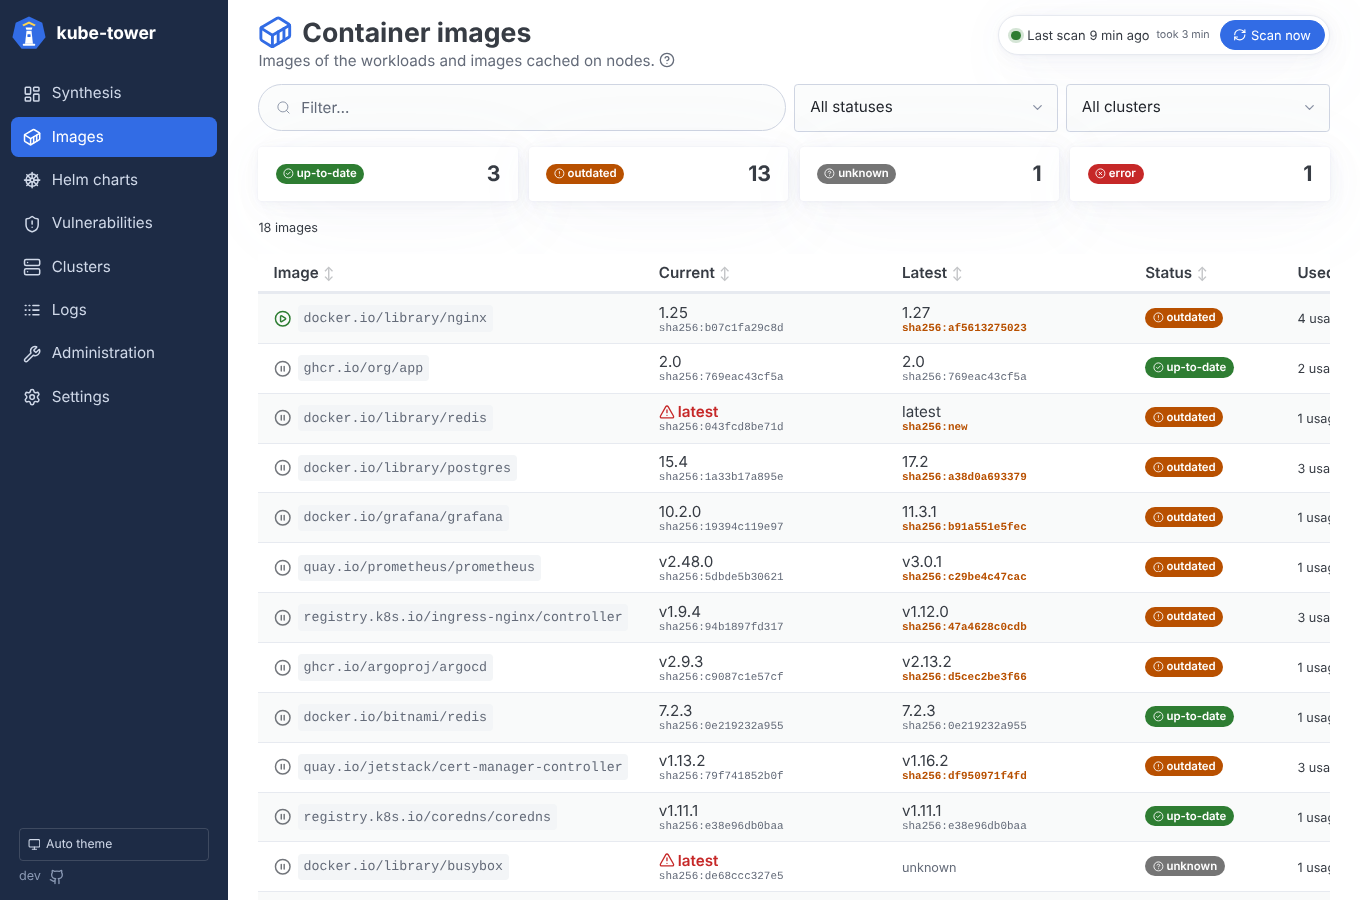
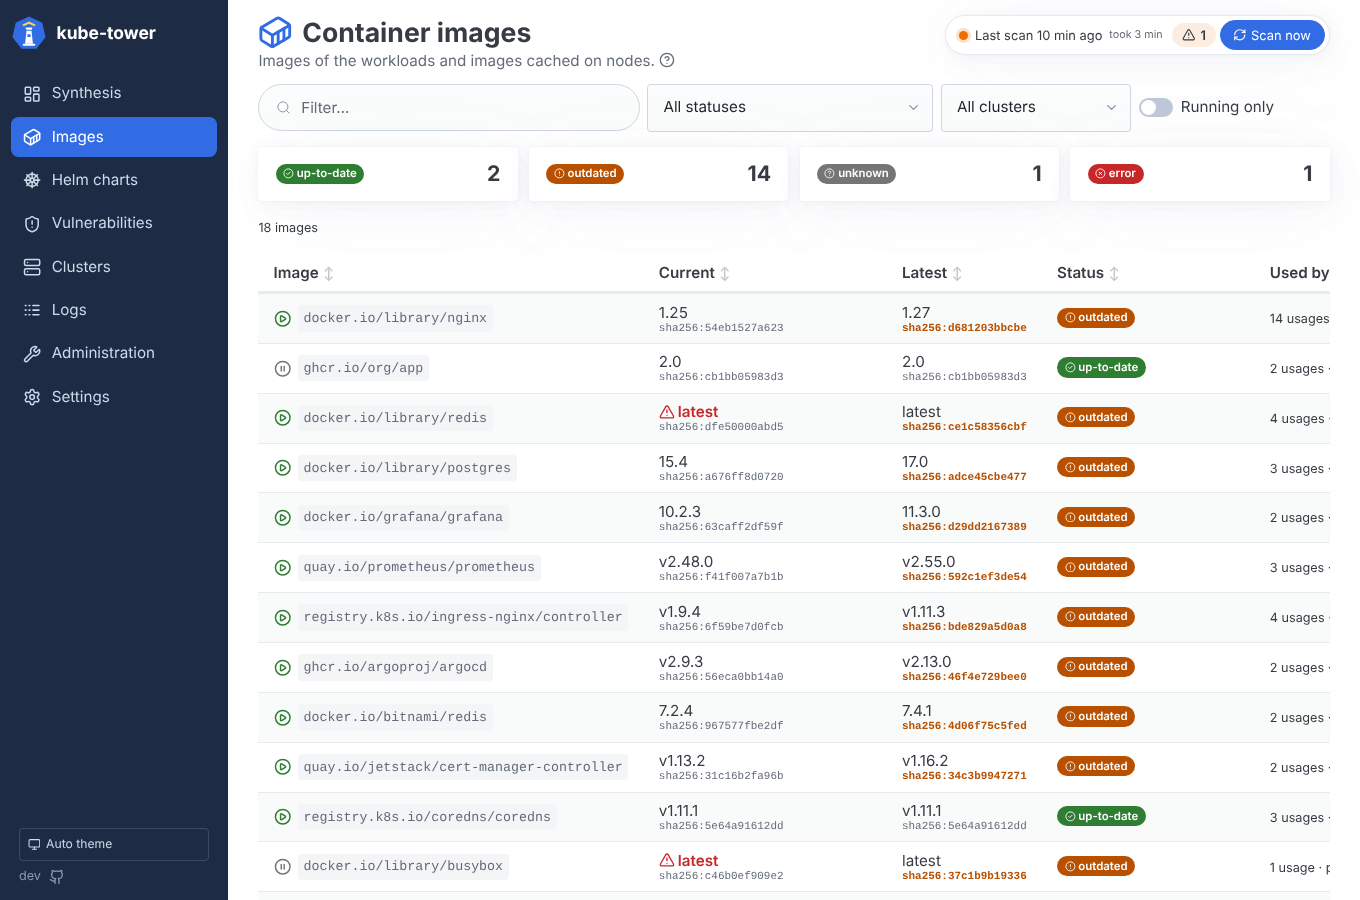
[ADD] Running only switch on the Images page (#95)
* Running only switch on the Images page

Claude-Session: https://claude.ai/code/session_01VCR1Wzjg7LBJK5t7fsriYj

* README and screenshots: the Running only switch

Claude-Session: https://claude.ai/code/session_01VCR1Wzjg7LBJK5t7fsriYj

---------

diff --git a/src/kube_tower/web/templates/_macros.html b/src/kube_tower/web/templates/_macros.html
@@ -76,8 +76,9 @@
 {% if items %}<p class="links">{% for label, url in items %}<a href="{{ url }}" target="_blank" rel="noopener">{{ icon("external-link") }}{{ label }}</a>{% endfor %}</p>{% endif %}
 {%- endmacro %}
 
-{% macro filters(path, q, status, cluster, snapshot) -%}
-<form class="filters" hx-get="{{ path }}" hx-target="#results" hx-push-url="true"
+{% macro filters(path, q, status, cluster, snapshot, running=none) -%}
+{# `running`: a "Running only" switch (images), checked when true; none: no switch. #}
+<form class="filters{% if running is not none %} filters-4{% endif %}" hx-get="{{ path }}" hx-target="#results" hx-push-url="true"
       hx-trigger="input changed delay:300ms from:input[name=q], change">
   <input type="search" name="q" value="{{ q }}" placeholder="Filter…" aria-label="Filter">
   <select name="status" aria-label="Status">
@@ -88,6 +89,11 @@
     <option value="">All clusters</option>
     {% for c in snapshot.clusters %}<option {% if c.name == cluster %}selected{% endif %}>{{ c.name }}</option>{% endfor %}
   </select>
+  {% if running is not none %}
+  <label class="filter-switch" title="Only the images that a pod runs (not the ones only declared by workloads without pods or cached on nodes)">
+    <input type="checkbox" role="switch" name="running" value="1" {% if running %}checked{% endif %}>Running only
+  </label>
+  {% endif %}
 </form>
 {%- endmacro %}
 

diff --git a/src/kube_tower/web/static/kube-tower.css b/src/kube_tower/web/static/kube-tower.css
@@ -138,6 +138,8 @@ th[aria-sort="descending"]::after { content: "↓"; opacity: 1; color: var(--kt-
 @media (max-width: 600px) { .filters { grid-template-columns: 1fr; } }
 .filters-4 { grid-template-columns: 2fr 1.5fr 1fr 1fr; }
 @media (max-width: 900px) { .filters-4 { grid-template-columns: 1fr 1fr; } }
+.filter-switch { display: flex; align-items: center; gap: .5rem; margin: 0 0 var(--pico-spacing, 1rem); white-space: nowrap; }
+.filter-switch input { margin: 0; }
 
 /* Status counters */
 .counters { display: grid; grid-template-columns: repeat(4, 1fr); gap: .75rem; margin-bottom: 1rem; }

diff --git a/src/kube_tower/web/templates/images.html b/src/kube_tower/web/templates/images.html
@@ -3,7 +3,7 @@
 {% block layout %}list-page{% endblock %}
 {% block heading %}{{ page_title("images", "Container images", "Images of the workloads and images cached on nodes.", "The icon tells whether a pod runs the image (hover it for details). Below each version, the start of its digest: a different digest is highlighted. Click an image for its details.") }}{% endblock %}
 {% block content %}
-{{ filters("images", q, status, cluster, snapshot) }}
+{{ filters("images", q, status, cluster, snapshot, running) }}
 <div id="results">{{ self.results() }}</div>
 {% endblock %}
 {% block results %}

diff --git a/src/kube_tower/web/ui.py b/src/kube_tower/web/ui.py
@@ -273,14 +273,17 @@ def mount(app: FastAPI) -> None:
     @app.get("/images", response_class=HTMLResponse, include_in_schema=False)
     async def images(request: Request):
         q, status, cluster = filters(request)
+        running = bool(request.query_params.get("running"))
         # Counters ignore the status filter: they are the buttons that set it.
         matching = [
             r
             for r in request.app.state.scanner.snapshot.images
-            if _matches(str(r.image), q) and (not cluster or cluster in r.clusters)
+            if _matches(str(r.image), q) and (not cluster or cluster in r.clusters) and (not running or r.running)
         ]
         rows = [r for r in matching if not status or r.status.value == status]
-        return render(request, "images", tab="images", rows=rows, matching=matching, q=q, status=status, cluster=cluster)
+        return render(
+            request, "images", tab="images", rows=rows, matching=matching, q=q, status=status, cluster=cluster, running=running
+        )
 
     @app.get("/images/detail", response_class=HTMLResponse, include_in_schema=False)
     async def image_detail(request: Request, ref: str = ""):

diff --git a/tests/test_web.py b/tests/test_web.py
@@ -174,6 +174,18 @@ def test_images_running_icons():
     assert "#i-running" in page and "#i-not-running" in page
 
 
+def test_images_running_only_switch():
+    client, _ = _client()
+    page = client.get("/images").text
+    assert 'role="switch" name="running"' in page and "checked" not in page
+    page = client.get("/images?running=1").text
+    assert 'name="running" value="1" checked' in page
+    assert "library/nginx" in page and "org/app" not in page and "library/redis" not in page
+    assert "<p><small>1 image</small></p>" in page  # counters and count follow the switch
+    assert "library/nginx" not in client.get("/images?running=1&cluster=c2").text
+    assert 'name="running"' not in client.get("/charts").text
+
+
 def test_maintenance_redirects_to_administration():
     client, _ = _client()
     resp = client.get("/maintenance", follow_redirects=False)

diff --git a/README.md b/README.md
@@ -38,7 +38,7 @@ never updates anything, you stay in control of your GitOps workflow.
 | ⎈ **Helm charts and subcharts** | Charts deployed by ArgoCD Applications, from Helm repositories, OCI registries or git paths, with every dependency checked. |
 | 🌐 **Multi-cluster** | Register clusters ArgoCD-style with a Secret, or reuse the cluster Secrets ArgoCD already has. |
 | 🛡 **Vulnerabilities (CVE)** | Read from Trivy Operator reports when the cluster has them, else scanned with Trivy (copied into the pod by the chart, standalone or client/server). Find the images affected by a CVE in one search. |
-| 🖥 **A UI made for triage** | Synthesis home page, filters kept in the URL, sortable columns with fixed headers, detail panels (digests, registry links, subchart tree, CVE list), per item rescan, live logs, light and dark themes. |
+| 🖥 **A UI made for triage** | Synthesis home page, filters kept in the URL (including a *Running only* switch for images), sortable columns with fixed headers, detail panels (digests, registry links, subchart tree, CVE list), per item rescan, live logs, light and dark themes. |
 | 🔐 **Registry authentication** | Per registry credentials, cloud identities (IRSA / EKS Pod Identity, GKE and AKS Workload Identity), reuse of the clusters' image pull secrets, private CAs. |
 | 🧰 **Administration** | Rescan one item or what failed, update the Trivy database, test the connectivity to clusters and registries, list unused node images. Read-only: nothing is ever changed in the clusters. |
 | 🪶 **Stateless** | No database. One small pod, rebuilt inventory every few hours or on demand. |

diff --git a/docs/usage.md b/docs/usage.md
@@ -85,7 +85,8 @@ and the most used outdated images (click one for its details) and the figures pe
 ![Images](images/images.png)
 
 One line per image reference (`registry/repository:tag`), whatever the number of workloads using
-it. The counters at the top summarize the statuses; filter by text, status or cluster. Images using `latest` (or no
+it. The counters at the top summarize the statuses; filter by text, status or cluster, and
+turn on **Running only** to keep the images a pod runs (`images?running=1`). Images using `latest` (or no
 tag at all, which means `latest`) are shown in red: the running version changes on every pull, pin
 a version instead.
 

diff --git a/CHANGELOG.md b/CHANGELOG.md
@@ -8,6 +8,8 @@ All notable changes to this project are documented here. The format follows
 
 ### Added
 
+- Images page: a **Running only** switch next to the filters keeps the images that a pod runs
+  (`images?running=1`); the counters follow it.
 - UI/UX review: the Images page always shows the current and the latest version with the start of
   their digests below (a different latest digest is highlighted), also in the image panel and the
   Synthesis; the Clusters page gets the figures of each cluster (images, charts, outdated, critical
